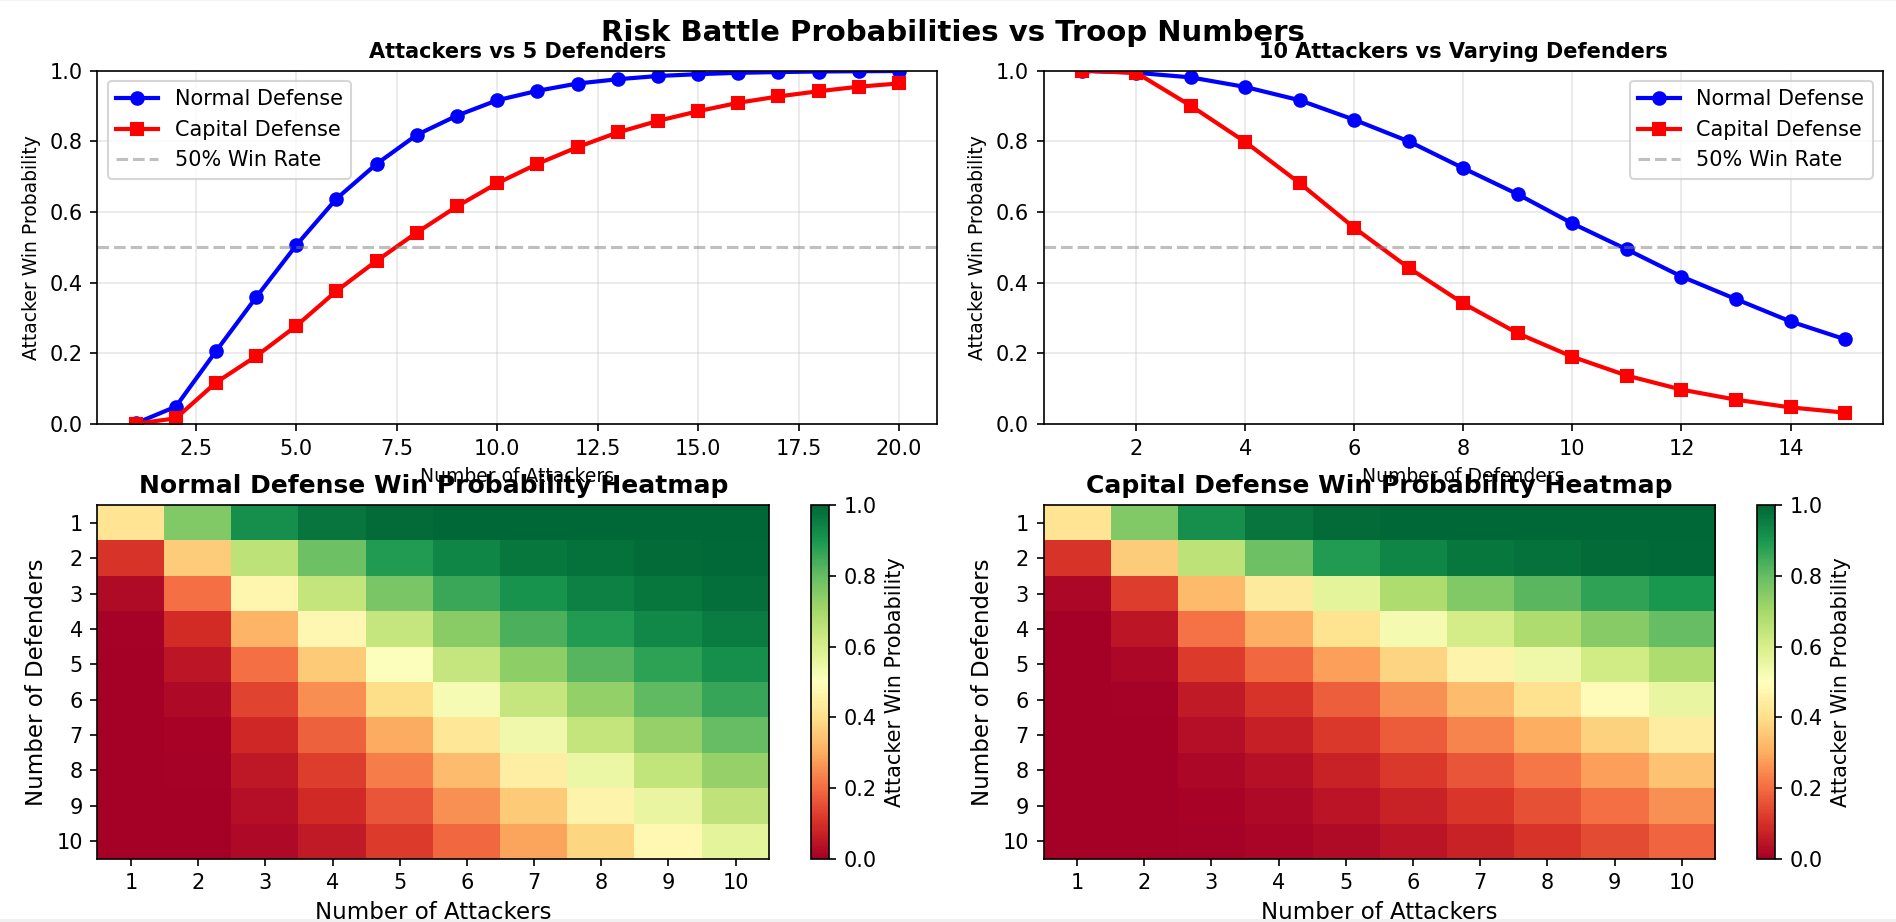
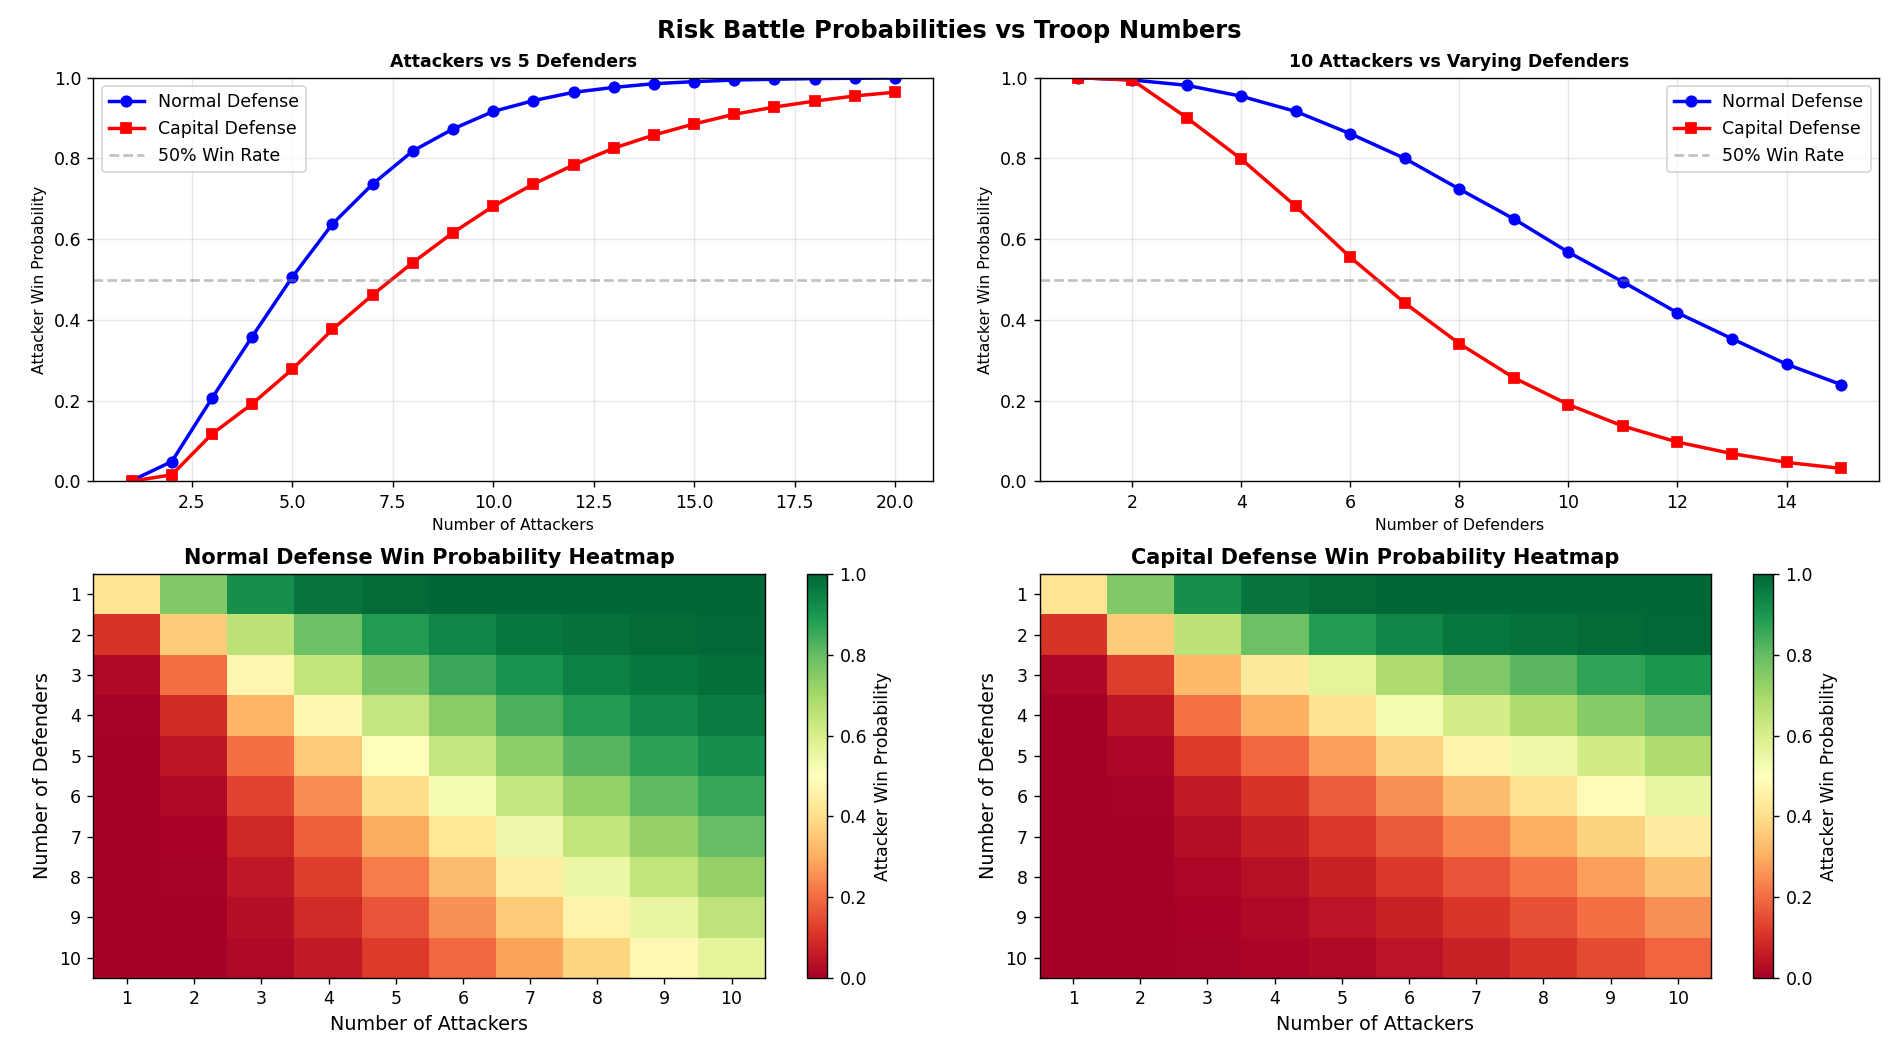
more accurate bb and charts.

diff --git a/battle.py b/battle.py
@@ -4,6 +4,7 @@ Risk Battle Probability Calculator Library
 Calculates exact probabilities for Risk game battles including:
 - Normal battles (1-3 attackers vs 1-2 defenders)
 - Capital defense bonuses (extra die for defender)
+- Balanced Blitz mode (adjusts final battle outcome probabilities)
 """
 
 from itertools import product
@@ -119,7 +120,7 @@ class RiskBattle:
             if (att, dfd) in memo:
                 return memo[(att, dfd)]
             
-            # Get single round probabilities
+            # Get single round probabilities (NO Balanced Blitz adjustment here)
             round_probs = cls.single_round_probabilities(att, dfd, capital_defense)
 
             result = {
@@ -189,9 +190,10 @@ def battle_probabilities_balanced_blitz(n_attackers, n_defenders, capital_defens
     """
     Calculate battle probabilities using Balanced Blitz algorithm.
     
-    This simulates RISK: Global Domination's Balanced Blitz mode which
-    adjusts outcome probabilities to make high-probability wins more likely
-    and low-probability wins less likely.
+    This simulates RISK: Global Domination's Balanced Blitz mode 
+    which adjusts FINAL battle outcome probabilities to make high-probability wins more likely
+    and low-probability wins less likely. The adjustment is applied to the complete battle
+    results, NOT to individual combat rounds.
     
     Args:
         n_attackers: Initial number of attacking armies
@@ -199,59 +201,49 @@ def battle_probabilities_balanced_blitz(n_attackers, n_defenders, capital_defens
         capital_defense: If True, defender gets capital bonus
     
     Returns:
-        dict: same format as battle_probabilities but with adjusted odds
+        dict: same format as battle_probabilities but with adjusted final probabilities
     """
-    # Memoization for dynamic programming
-    memo = {}
+    # First, calculate the true random battle probabilities
+    true_random_result = RiskBattle.battle_probabilities(n_attackers, n_defenders, capital_defense)
     
-    def dp(att, dfd):
-        """Recursively calculate probabilities with Balanced Blitz."""
-        if att == 0:
-            return {'attacker_wins': 0.0, 'defender_wins': 1.0,
-                   'attacker_survivors': {0: 1.0}, 'defender_survivors': {dfd: 1.0}}
-        if dfd == 0:
-            return {'attacker_wins': 1.0, 'defender_wins': 0.0,
-                   'attacker_survivors': {att: 1.0}, 'defender_survivors': {0: 1.0}}
-        
-        if (att, dfd) in memo:
-            return memo[(att, dfd)]
-        
-        # Get single round probabilities (true random)
-        round_probs = RiskBattle.single_round_probabilities(att, dfd, capital_defense)
-        
-        # Apply Balanced Blitz adjustment to this round
-        round_probs = apply_balanced_blitz(round_probs)
-        
-        result = {
-            'attacker_wins': 0.0,
-            'defender_wins': 0.0,
-            'attacker_survivors': defaultdict(float),
-            'defender_survivors': defaultdict(float)
-        }
-        
-        # Aggregate over all possible outcomes
-        for (att_loss, def_loss), prob in round_probs.items():
-            new_att = att - att_loss
-            new_dfd = dfd - def_loss
-            
-            sub_result = dp(new_att, new_dfd)
-            
-            result['attacker_wins'] += prob * sub_result['attacker_wins']
-            result['defender_wins'] += prob * sub_result['defender_wins']
-            
-            for survivors, survivor_prob in sub_result['attacker_survivors'].items():
-                result['attacker_survivors'][survivors] += prob * survivor_prob
-            for survivors, survivor_prob in sub_result['defender_survivors'].items():
-                result['defender_survivors'][survivors] += prob * survivor_prob
-        
-        # Convert defaultdict to regular dict
-        result['attacker_survivors'] = dict(result['attacker_survivors'])
-        result['defender_survivors'] = dict(result['defender_survivors'])
-        
-        memo[(att, dfd)] = result
-        return result
+    # Extract just the win/loss probabilities for Balanced Blitz adjustment
+    outcome_probs = {
+        'attacker_wins': true_random_result['attacker_wins'],
+        'defender_wins': true_random_result['defender_wins']
+    }
     
-    return dp(n_attackers, n_defenders)
+    # Apply Balanced Blitz adjustment to the FINAL battle outcomes
+    adjusted_outcomes = apply_balanced_blitz(outcome_probs)
+    
+    # Calculate the adjustment ratios
+    attacker_ratio = adjusted_outcomes['attacker_wins'] / true_random_result['attacker_wins'] if true_random_result['attacker_wins'] > 0 else 0
+    defender_ratio = adjusted_outcomes['defender_wins'] / true_random_result['defender_wins'] if true_random_result['defender_wins'] > 0 else 0
+    
+    # Apply the same ratios to the survivor distributions
+    # This maintains consistency between win probabilities and survivor counts
+    adjusted_attacker_survivors = {}
+    adjusted_defender_survivors = {}
+    
+    # Adjust attacker survivor probabilities
+    for survivors, prob in true_random_result['attacker_survivors'].items():
+        if survivors > 0:  # Attacker wins
+            adjusted_attacker_survivors[survivors] = prob * attacker_ratio
+        else:  # Attacker loses (0 survivors)
+            adjusted_attacker_survivors[survivors] = prob * defender_ratio
+    
+    # Adjust defender survivor probabilities
+    for survivors, prob in true_random_result['defender_survivors'].items():
+        if survivors > 0:  # Defender wins
+            adjusted_defender_survivors[survivors] = prob * defender_ratio
+        else:  # Defender loses (0 survivors)
+            adjusted_defender_survivors[survivors] = prob * attacker_ratio
+    
+    return {
+        'attacker_wins': adjusted_outcomes['attacker_wins'],
+        'defender_wins': adjusted_outcomes['defender_wins'],
+        'attacker_survivors': adjusted_attacker_survivors,
+        'defender_survivors': adjusted_defender_survivors
+    }
 
 
 def print_single_round_analysis(n_attackers, n_defenders, capital=False):
@@ -318,6 +310,13 @@ def print_balanced_blitz_comparison(n_attackers, n_defenders, capital=False):
         print(f"  Recommendation: MANUAL ROLL (low odds hurt attacker more in blitz)")
     else:
         print(f"  Recommendation: Player choice (odds are in middle range)")
+    
+    # Additional verification that probabilities sum to 1.0
+    tr_sum = result_tr['attacker_wins'] + result_tr['defender_wins']
+    bb_sum = result_bb['attacker_wins'] + result_bb['defender_wins']
+    print(f"\nProbability sum verification:")
+    print(f"  True Random sum:    {tr_sum:.6f}")
+    print(f"  Balanced Blitz sum: {bb_sum:.6f}")
 
 
 def plot_probability_vs_troops():

diff --git a/README.md b/README.md
@@ -2,8 +2,6 @@
 
 This code reveals Risk battle probabilities for my personal amusement. Use these figures at your own *Risk*.
 
-**Note:** This branch, `balanced-blitz` is not correct and is still **Under Construction**. Need to convert [https://github.com/smgstudio/risk-dice](https://github.com/smgstudio/risk-dice).
-
 ## Getting Started
 
 ```sh
@@ -13,4 +11,12 @@ python battle.py
 
 ## Results
 
-**NOT finished, do not use.**
+### Classic Boardgame
+
+![](./boardgame.png)
+
+### Global Domination
+
+This chart shows balanced blitz diced in comparison with true random (classic boardgame). The two charts on the right are advantages in comparison with true random.
+
+![](./balancedBlitz.png)
